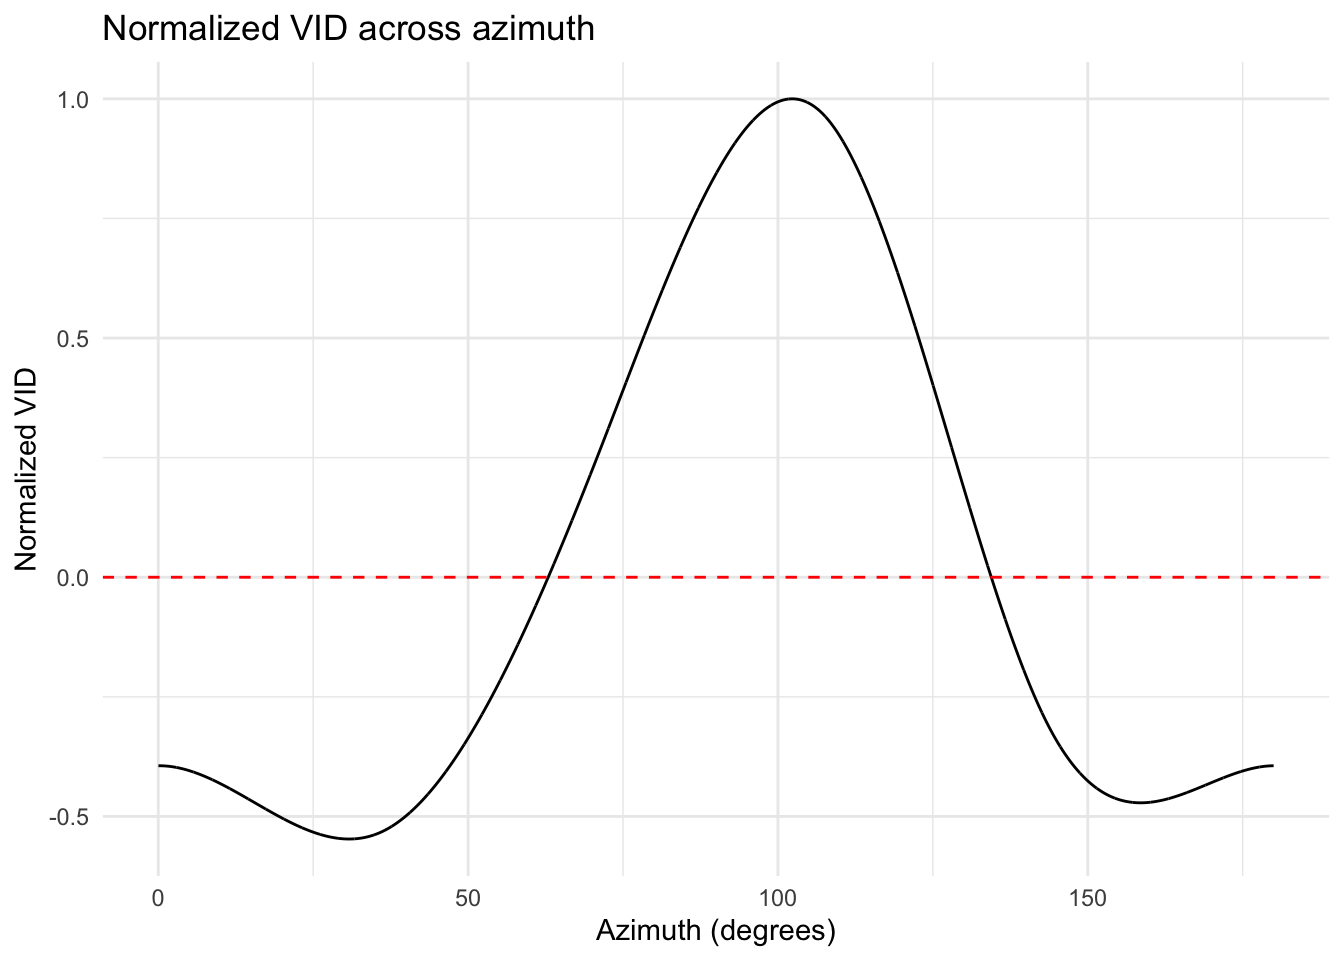
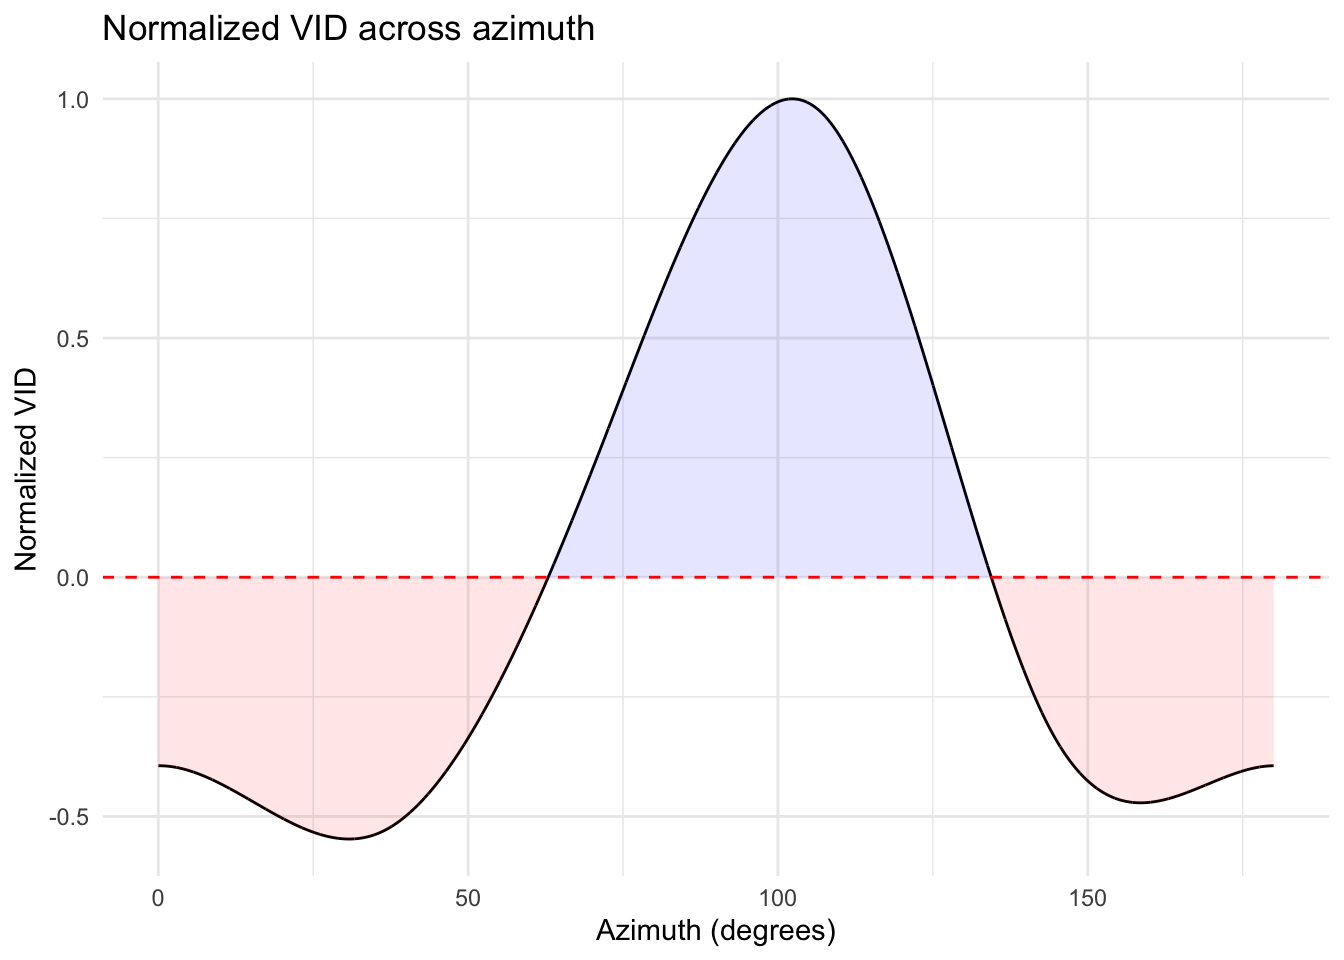
added bookdown

Changed region(s): [[0.0938, 0.0938, 0.9688, 0.875]]

diff --git a/wgfd/azimuth-effect-correction.html b/wgfd/azimuth-effect-correction.html
@@ -481,11 +481,13 @@ should give you the value by which to shift your relative azmiuth. The purple li
 <span id="cb12-14"><a href="#cb12-14" tabindex="-1"></a></span>
 <span id="cb12-15"><a href="#cb12-15" tabindex="-1"></a><span class="co"># Plot the normalized VID values</span></span>
 <span id="cb12-16"><a href="#cb12-16" tabindex="-1"></a><span class="fu">ggplot</span>(data_for_gam_mirror, <span class="fu">aes</span>(<span class="at">x =</span> mirrored_azimuth, <span class="at">y =</span> normalized_VID)) <span class="sc">+</span></span>
-<span id="cb12-17"><a href="#cb12-17" tabindex="-1"></a>  <span class="fu">geom_line</span>() <span class="sc">+</span></span>
-<span id="cb12-18"><a href="#cb12-18" tabindex="-1"></a>  <span class="fu">geom_hline</span>(<span class="at">yintercept =</span> <span class="dv">0</span>, <span class="at">linetype =</span> <span class="st">&quot;dashed&quot;</span>, <span class="at">color =</span> <span class="st">&quot;red&quot;</span>) <span class="sc">+</span></span>
-<span id="cb12-19"><a href="#cb12-19" tabindex="-1"></a>  <span class="fu">labs</span>(<span class="at">title =</span> <span class="st">&quot;Normalized VID across azimuth&quot;</span>,</span>
-<span id="cb12-20"><a href="#cb12-20" tabindex="-1"></a>       <span class="at">x =</span> <span class="st">&quot;Azimuth (degrees)&quot;</span>, <span class="at">y =</span> <span class="st">&quot;Normalized VID&quot;</span>) <span class="sc">+</span></span>
-<span id="cb12-21"><a href="#cb12-21" tabindex="-1"></a>  <span class="fu">theme_minimal</span>()</span></code></pre></div>
+<span id="cb12-17"><a href="#cb12-17" tabindex="-1"></a>  <span class="fu">geom_line</span>() <span class="sc">+</span>  <span class="co"># Draw the line</span></span>
+<span id="cb12-18"><a href="#cb12-18" tabindex="-1"></a>  <span class="fu">geom_area</span>(<span class="fu">aes</span>(<span class="at">y =</span> <span class="fu">ifelse</span>(normalized_VID <span class="sc">&gt;</span> <span class="dv">0</span>, normalized_VID, <span class="dv">0</span>)), <span class="at">fill =</span> <span class="st">&quot;blue&quot;</span>, <span class="at">alpha =</span> <span class="fl">0.1</span>) <span class="sc">+</span>  <span class="co"># Fill area above zero</span></span>
+<span id="cb12-19"><a href="#cb12-19" tabindex="-1"></a>  <span class="fu">geom_area</span>(<span class="fu">aes</span>(<span class="at">y =</span> <span class="fu">ifelse</span>(normalized_VID <span class="sc">&lt;</span> <span class="dv">0</span>, normalized_VID, <span class="dv">0</span>)), <span class="at">fill =</span> <span class="st">&quot;red&quot;</span>, <span class="at">alpha =</span> <span class="fl">0.1</span>) <span class="sc">+</span>  <span class="co"># Fill area below zero</span></span>
+<span id="cb12-20"><a href="#cb12-20" tabindex="-1"></a>  <span class="fu">geom_hline</span>(<span class="at">yintercept =</span> <span class="dv">0</span>, <span class="at">linetype =</span> <span class="st">&quot;dashed&quot;</span>, <span class="at">color =</span> <span class="st">&quot;red&quot;</span>) <span class="sc">+</span>  <span class="co"># Add a horizontal line at y = 0</span></span>
+<span id="cb12-21"><a href="#cb12-21" tabindex="-1"></a>  <span class="fu">labs</span>(<span class="at">title =</span> <span class="st">&quot;Normalized VID across azimuth&quot;</span>,</span>
+<span id="cb12-22"><a href="#cb12-22" tabindex="-1"></a>       <span class="at">x =</span> <span class="st">&quot;Azimuth (degrees)&quot;</span>, <span class="at">y =</span> <span class="st">&quot;Normalized VID&quot;</span>) <span class="sc">+</span></span>
+<span id="cb12-23"><a href="#cb12-23" tabindex="-1"></a>  <span class="fu">theme_minimal</span>()</span></code></pre></div>
 </details>
 <p><img src="azimuth_effect_correction_files/figure-html/unnamed-chunk-8-1.png" width="672" /></p>
 <details class=chunk-details><summary class=chunk-summary><span class=chunk-summary-text>Code</span></summary>
